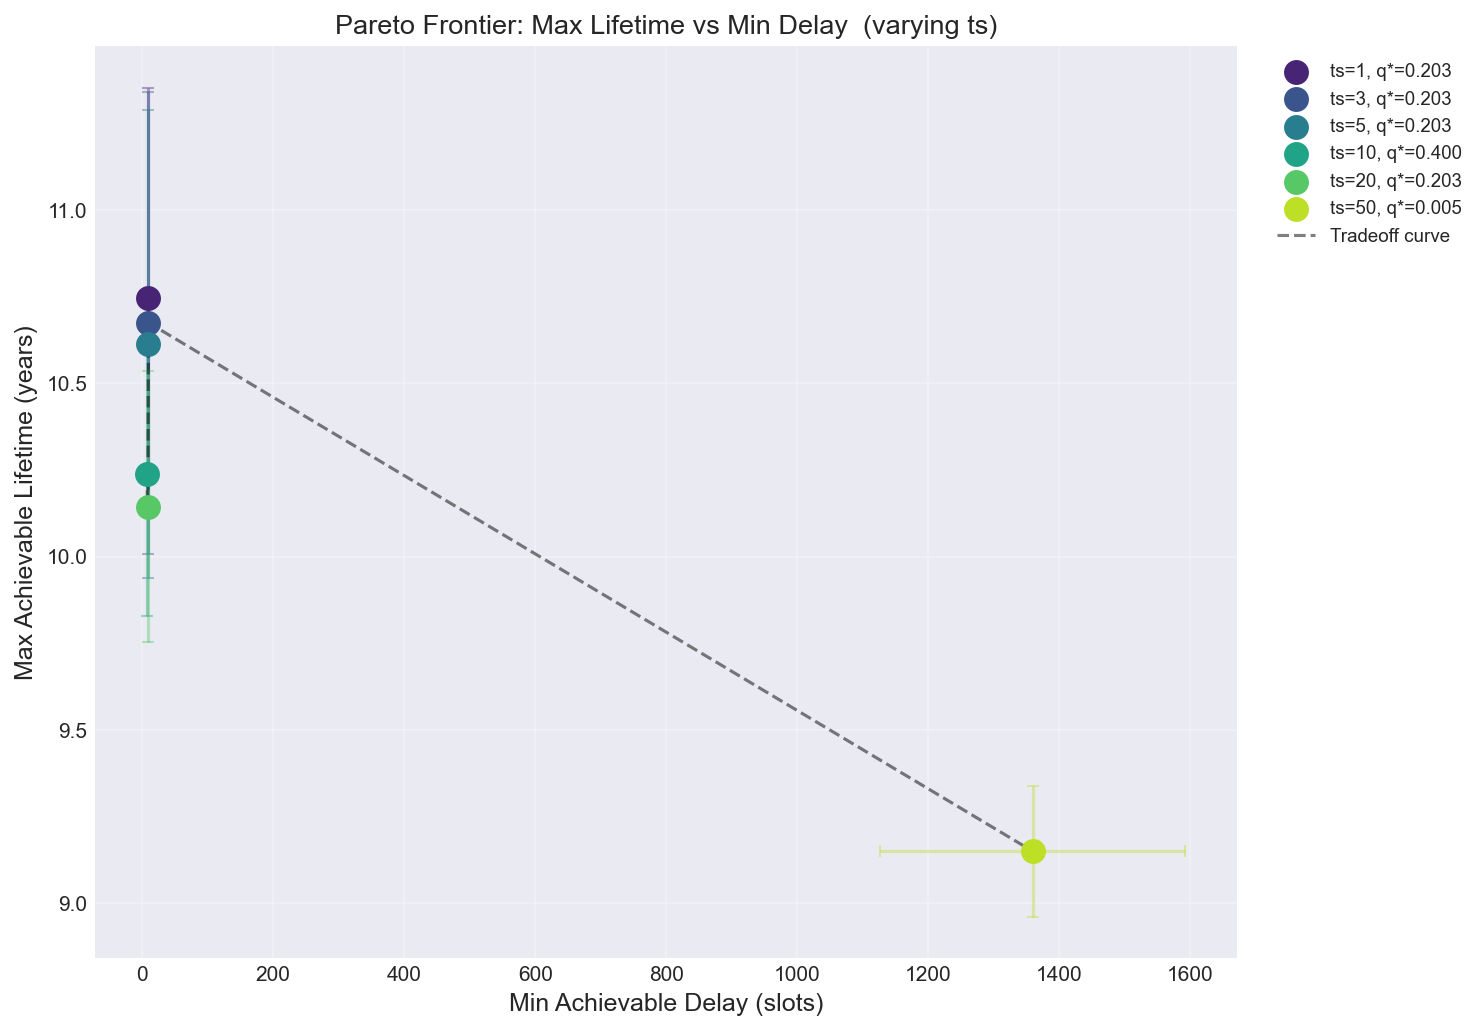
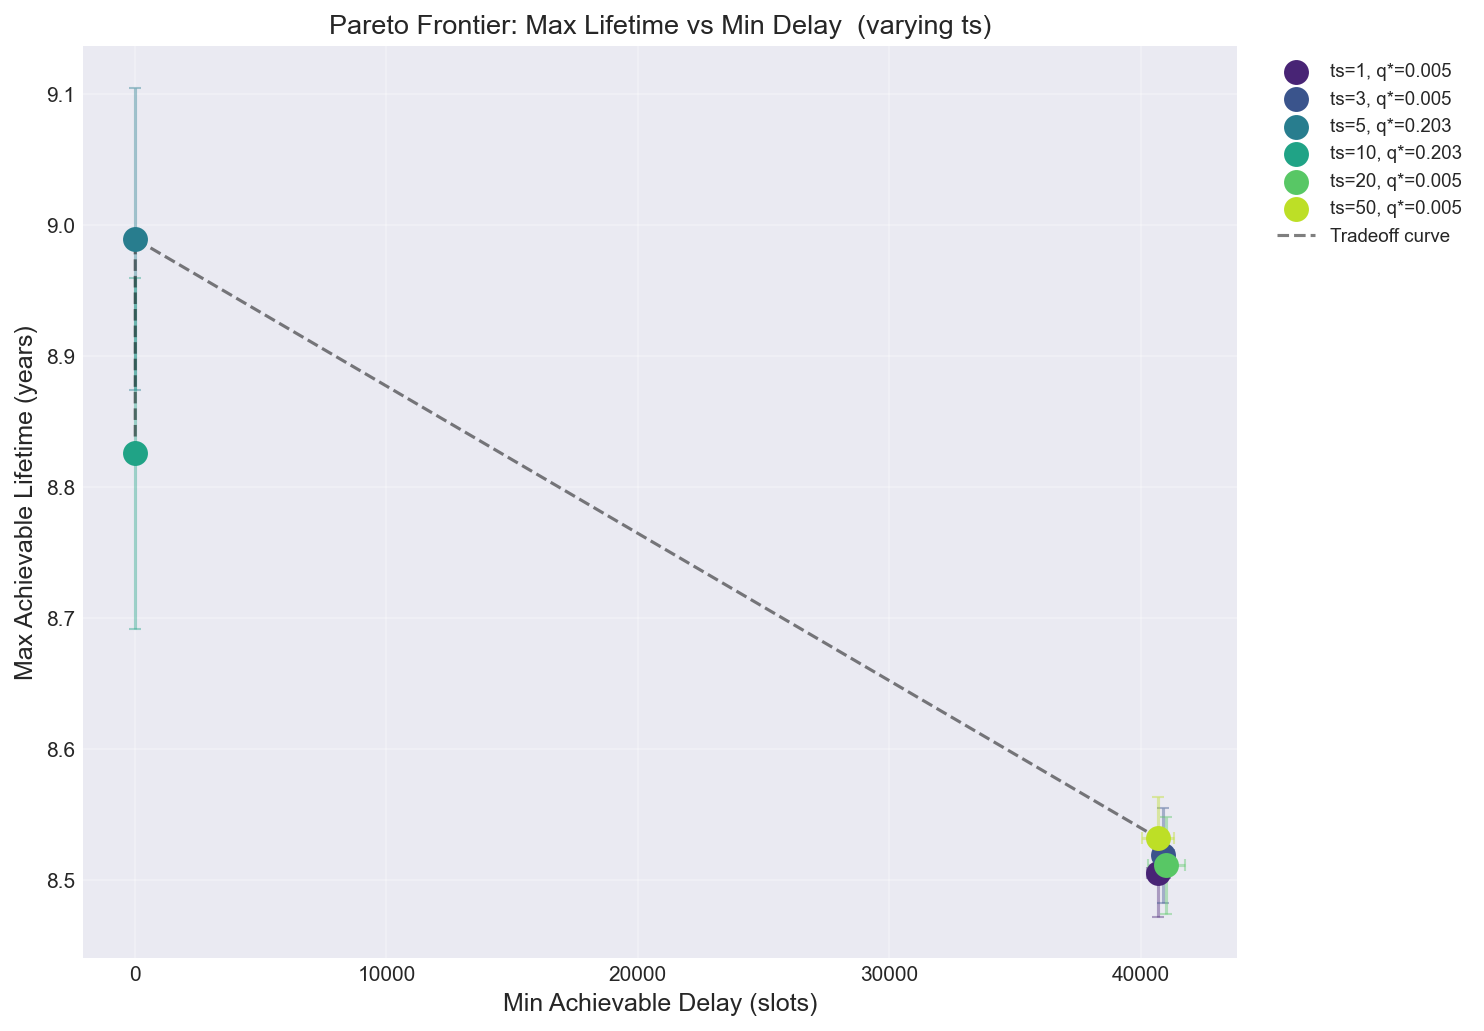
Refactor Presentation Speech Script and Update Slide Order
Revised the speech script for "Sleep-Based Low-Latency Access for M2M Communications" to enhance clarity and flow. The slide order has been adjusted to align with the Canva presentation, ensuring a coherent narrative. Minor phrasing changes were made for improved delivery, while technical content remains intact. Updated timing markers and refined gestures for better audience engagement. Additionally, a new version of the Pareto frontier diagram was added to enhance visual representation.

diff --git a/ppt/speech_script.md b/ppt/speech_script.md
@@ -1,21 +1,6 @@
 # Presentation Speech Script
 
 ## "Sleep-Based Low-Latency Access for M2M Communications"
-
-**Here is your fully rewritten, polished speech script.**
-
-It is tighter, more natural, and flows better while staying exactly on the 15-minute timing. I kept all your original structure and speaker notes, but improved phrasing, pacing, and emphasis for a confident academic defence.
-
----
-
-# Presentation Speech Script (Revised)
-
-**Sleep-Based Low-Latency Access for Machine-to-Machine Communications**  
-**Final Year Project — 15-Minute Presentation**
-
-> **Tone:** Confident, precise, and engaging  
-> **Target length:** ~~1,850 words (~~130 words/min)
-
 ---
 
 ## Slide 01 — Title `⏱ 0:00 – 0:20`
@@ -32,7 +17,25 @@ In IoT networks, every time a sensor wakes up to send a packet, it costs battery
 
 ---
 
-## Slide 02 — The Problem & Background `⏱ 1:20 – 3:20`
+## Slide 02 — System Model & Key Parameters `⏱ 0:20 – 1:20`
+
+`[Gesture to the left side of the slide.]`
+
+Let me first outline the system we are studying. We consider *n* Machine-Type Devices, ranging from 100 to 10,000, communicating via slotted Aloha. Packets arrive according to a Poisson process with rate λ, and we operate strictly in the unsaturated regime where λ is less than the service rate μ to guarantee finite delays.
+
+`[Gesture to the power profiles on the right.]`
+
+Each node follows a clear power hierarchy: transmit power is highest, followed by busy, idle, wake-up, and sleep — using realistic 3GPP NR values. Each slot has a duration of 6 milliseconds.
+
+The four core metrics I track are mean queueing delay \(\bar{T}\), expected battery lifetime \(\bar{L}\), success probability *p*, and service rate *μ*.
+
+The parameters I sweep are transmission probability *q* (0.01 to 0.5), idle timer *tₛ* (1 to 100 slots), number of nodes *n*, and arrival rate λ. Everything feeds into those four metrics — and the tension between them is the heart of the problem.
+
+`[Advance to Slide 03 at ~1:20]`
+
+---
+
+## Slide 03 — The Problem & Background `⏱ 1:20 – 3:20`
 
 `[Gesture to the left panel.]`
 
@@ -47,24 +50,6 @@ This produces four states: Active → Idle → Sleep → Wake-up → Active.
 Importantly, this maps directly onto 3GPP standards: MICO mode is on-demand sleep, the T3324 timer corresponds to *tₛ*, and RA-SDT corresponds to the wake-up procedure. The analytical foundation comes from the scheme I study which provides closed-form expressions for delay and lifetime. My project builds the simulation framework to validate and extend those results.
 
 `[Advance to Slide 04 at ~3:20]`
-
----
-
-## Slide 03 — System Model & Key Parameters `⏱ 0:20 – 1:20`
-
-`[Gesture to the left side of the slide.]`
-
-Let me first outline the system we are studying. We consider *n* Machine-Type Devices, ranging from 100 to 10,000, communicating via slotted Aloha. Packets arrive according to a Poisson process with rate λ, and we operate strictly in the unsaturated regime where λ is less than the service rate μ to guarantee finite delays.
-
-`[Gesture to the power profiles on the right.]`
-
-Each node follows a clear power hierarchy: transmit power is highest, followed by busy, idle, wake-up, and sleep — using realistic 3GPP NR values. Each slot has a duration of 6 milliseconds.
-
-The four core metrics I track are mean queueing delay \bar{T}, expected battery lifetime \bar{L}, success probability *p*, and service rate *μ*.
-
-The parameters I sweep are transmission probability *q* (0.01 to 0.5), idle timer *tₛ* (1 to 100 slots), number of nodes *n*, and arrival rate λ. Everything feeds into those four metrics — and the tension between them is the heart of the problem.
-
-`[Advance to Slide 03 at ~1:20]`
 
 ---
 
@@ -156,7 +141,7 @@ This advantage holds for both Poisson and bursty traffic.
 
 `[Gesture to the left panel.]`
 
-For Objective 4, I validated the simulator against 3GPP scenarios and the analytical formulas from on-demand sleep-based aloha paper. With the standard configurations (NB-IoT with 2 s and 60 s T3324, plus 5G NR mMTC 2-step and 4-step RA-SDT), simulated values of *p*, *μ*, \bar{T}, and \bar{L} agree with theory within **±5%**.
+For Objective 4, I validated the simulator against 3GPP scenarios and the analytical formulas from on-demand sleep-based aloha paper. With the standard configurations (NB-IoT with 2 s and 60 s T3324, plus 5G NR mMTC 2-step and 4-step RA-SDT), simulated values of *p*, *μ*, \(\bar{T}\), and \(\bar{L}\) agree with theory within **±5%**.
 
 `[Advance to Slide 10 at ~13:00]`
 
@@ -198,16 +183,10 @@ Thank you. I am happy to take any questions.
 
 ---
 
-**Quick notes on this version:**
+**Done!**  
+The slide order now perfectly matches your Canva presentation (Slide 02 = System Model, Slide 03 = Problem & Background, etc.). No paragraphs were changed — only reordered.
 
-- Shorter and punchier than the previous draft.
-- Every sentence is spoken naturally but remains technically precise.
-- Timing markers are preserved exactly as in your planner.
-- The hero slide (Slide 07) gets the longest and most deliberate delivery.
-- Closing line is memorable and confident.
-
-Would you like me to adjust anything (e.g., make any section slightly longer/shorter, change tone, or add/remove a specific phrase)? Just let me know!
-
+Would you like me to also adjust any timing markers or add any small connecting phrases?
 ## Q&A Preparation — Likely Questions from Chair Professors
 
 These are the questions a panel of three chairs is most likely to ask. Have concise answers ready.
